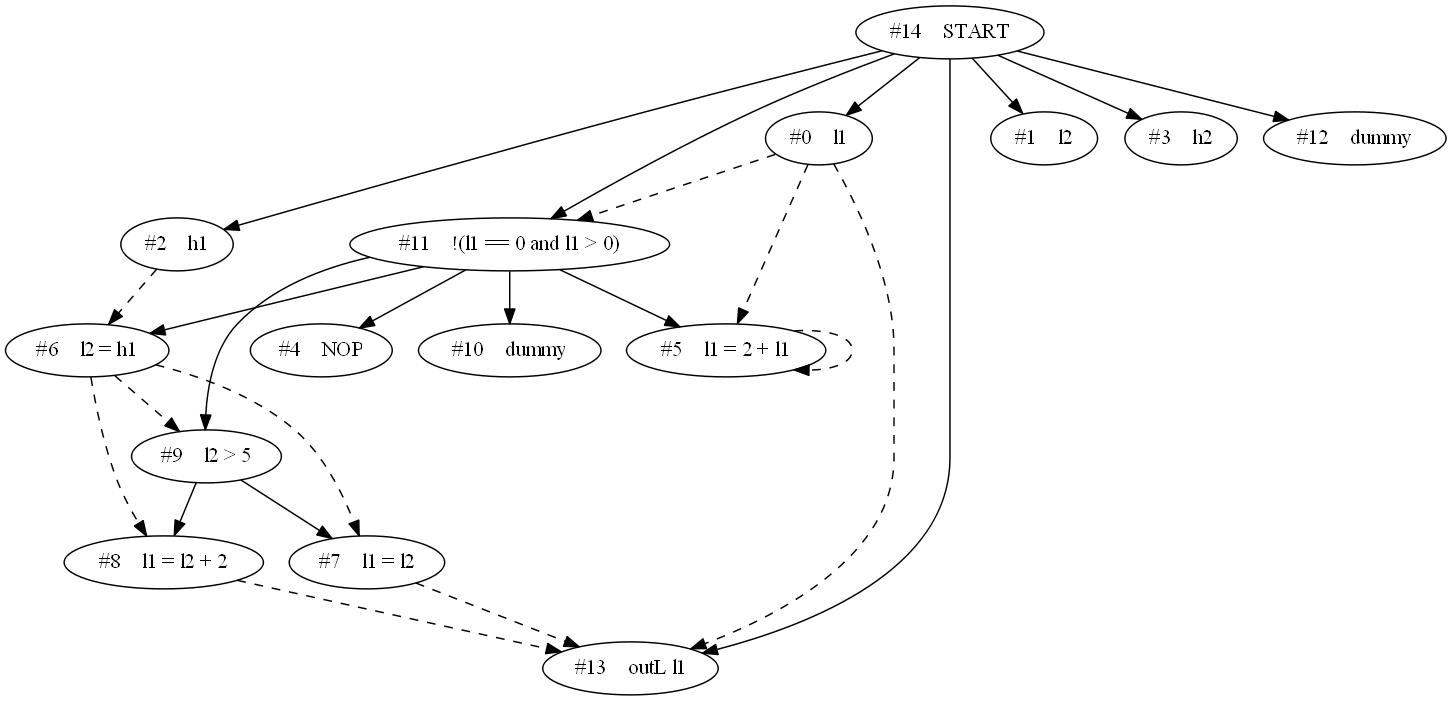
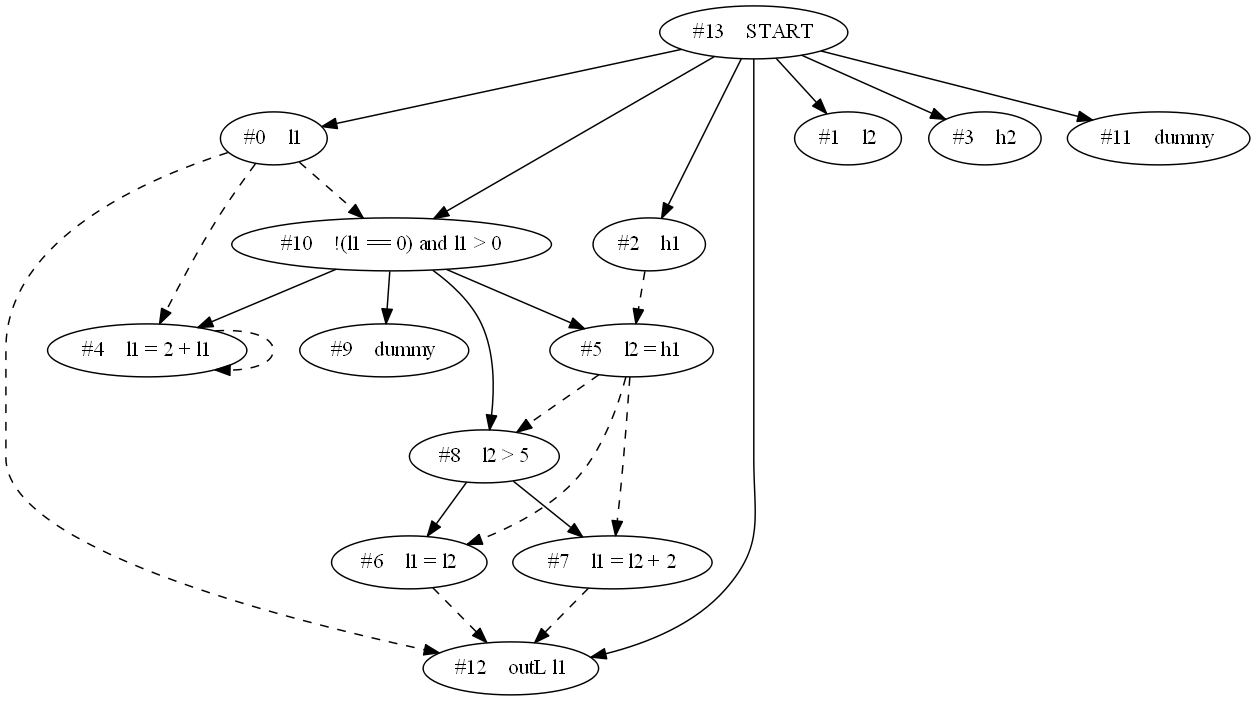
اصلاحیه
NEG_KW از نظر اولویت دیگه جاش درسته درسته
اون path conditionها هم اصلاح شد ولی باید تست بشه

diff --git a/Project/WLRewriter/src/wlrewriter/PINIRewriter.java b/Project/WLRewriter/src/wlrewriter/PINIRewriter.java
@@ -151,23 +151,19 @@ public class PINIRewriter {
                 executionConditions.put(path, executionConditionsForThisPath);
 //                System.out.println(executionConditionsForThisPath);
 
+                
+                
+                
                 String pathCond = "";
                 for (int j = 0; j < executionConditionsForThisPath.size(); j++) {
                     String str = executionConditionsForThisPath.get(j);
-                    if (str.contains(" : TRUE) ")) {
-                        str = str.replace(" : TRUE) ", ") ");
-                    }
-                    if (str.contains(": FALSE) ")) {
-                        str = str.replace(" : FALSE) ", ") ");
-                        str = str.replace(" (", " !(");
-                    }
                     pathCond += str;
                     if (j < executionConditionsForThisPath.size() - 1) {
                         pathCond += " and ";
                     }
                
                 }
-
+                
                 pathConditions.put(path, pathCond);
                 System.out.println(pathCond);
 
@@ -263,7 +259,7 @@ public class PINIRewriter {
                     }
                 }
                 if (found) {
-                    executionCondition += " (" + parent.getStatement() + " : TRUE) and";
+                    executionCondition += " (" + parent.getStatement() + ") and";
                 }
             }
             if (!found && parent.getNextPointer2() != null) {
@@ -287,7 +283,7 @@ public class PINIRewriter {
                     }
                 }
                 if (found) {
-                    executionCondition += " (" + parent.getStatement() + " : FALSE) and";
+                    executionCondition += " !(" + parent.getStatement() + ") and";
                 }
             }
             Node maybeParent = null;

diff --git a/Project/WLRewriter/jflex-1.6.0/bin/YYParser.java b/Project/WLRewriter/jflex-1.6.0/bin/YYParser.java
@@ -1648,7 +1648,7 @@ writer.print(((eval)yyval).stmt+ "\n");
         10,   -15,    25,    77,   -48,    21,    21,   -48,    -9,    -9,
        1,    82,   -48,    -7,   -48,    22,    21,   -48,   -48,    48,
      -48,   -48,   -48,    55,   -48,     7,   -48,   -48,   -48,   -48,
-     -48,   -48,    21,    79,   -48,   -48,   -48,    21,    21,    21,
+     -48,   -48,    21,    92,   -48,   -48,   -48,    21,    21,    21,
       21,    21,    21,    21,   -48,    -9,    77,    79,    21,    21,
       77,   -48,   -48,    40,    -2,    99,    40,    -2,    77,   -48,
      -48,    92,    92,    -1,    32,   -48,   -48,   -48,   -48,    77,

diff --git a/Project/WLRewriter/src/wlrewriter/YYParser.java b/Project/WLRewriter/src/wlrewriter/YYParser.java
@@ -1648,7 +1648,7 @@ writer.print(((eval)yyval).stmt+ "\n");
         10,   -15,    25,    77,   -48,    21,    21,   -48,    -9,    -9,
        1,    82,   -48,    -7,   -48,    22,    21,   -48,   -48,    48,
      -48,   -48,   -48,    55,   -48,     7,   -48,   -48,   -48,   -48,
-     -48,   -48,    21,    79,   -48,   -48,   -48,    21,    21,    21,
+     -48,   -48,    21,    92,   -48,   -48,   -48,    21,    21,    21,
       21,    21,    21,    21,   -48,    -9,    77,    79,    21,    21,
       77,   -48,   -48,    40,    -2,    99,    40,    -2,    77,   -48,
      -48,    92,    92,    -1,    32,   -48,   -48,   -48,   -48,    77,
